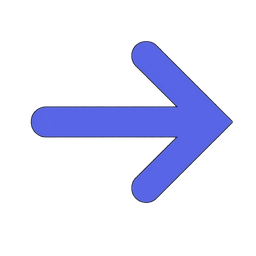
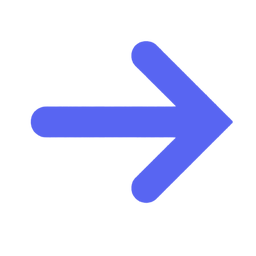
Convert red-white application emojis to Discord blue

diff --git a/bot/utils/sync_emojis.py b/bot/utils/sync_emojis.py
@@ -47,9 +47,27 @@ ASSET_DIR = os.path.abspath(os.path.join(os.path.dirname(__file__), "..", "asset
 # the new ID to emoji.py, normal name/ID matching takes over on later starts.
 LOCAL_EMOJI_SOURCES = {
     "ArrowRed": os.path.join(ASSET_DIR, "ArrowRed.png"),
+    "Disable": os.path.join(ASSET_DIR, "Disable.png"),
+    "handshake": os.path.join(ASSET_DIR, "handshake.png"),
+    "index": os.path.join(ASSET_DIR, "index.png"),
+    "red_button": os.path.join(ASSET_DIR, "red_button.png"),
+    "universitybot_time": os.path.join(ASSET_DIR, "universitybot_time.png"),
+    "warning": os.path.join(ASSET_DIR, "warning.png"),
+    "zmusic": os.path.join(ASSET_DIR, "zmusic.png"),
+    "zpin": os.path.join(ASSET_DIR, "zpin.png"),
+    "zseed": os.path.join(ASSET_DIR, "zseed.png"),
 }
 FORCE_REPLACE_IDS = {
     "ArrowRed": {"1530375308270899371"},
+    "Disable": {"1530375483936608277"},
+    "handshake": {"1530375521534214306"},
+    "index": {"1530375391959580783"},
+    "red_button": {"1530375507214991471"},
+    "universitybot_time": {"1530375094893936800"},
+    "warning": {"1530375219733201036"},
+    "zmusic": {"1530375363090448404"},
+    "zpin": {"1530375133791784964"},
+    "zseed": {"1530375235981803573"},
 }
 
 
